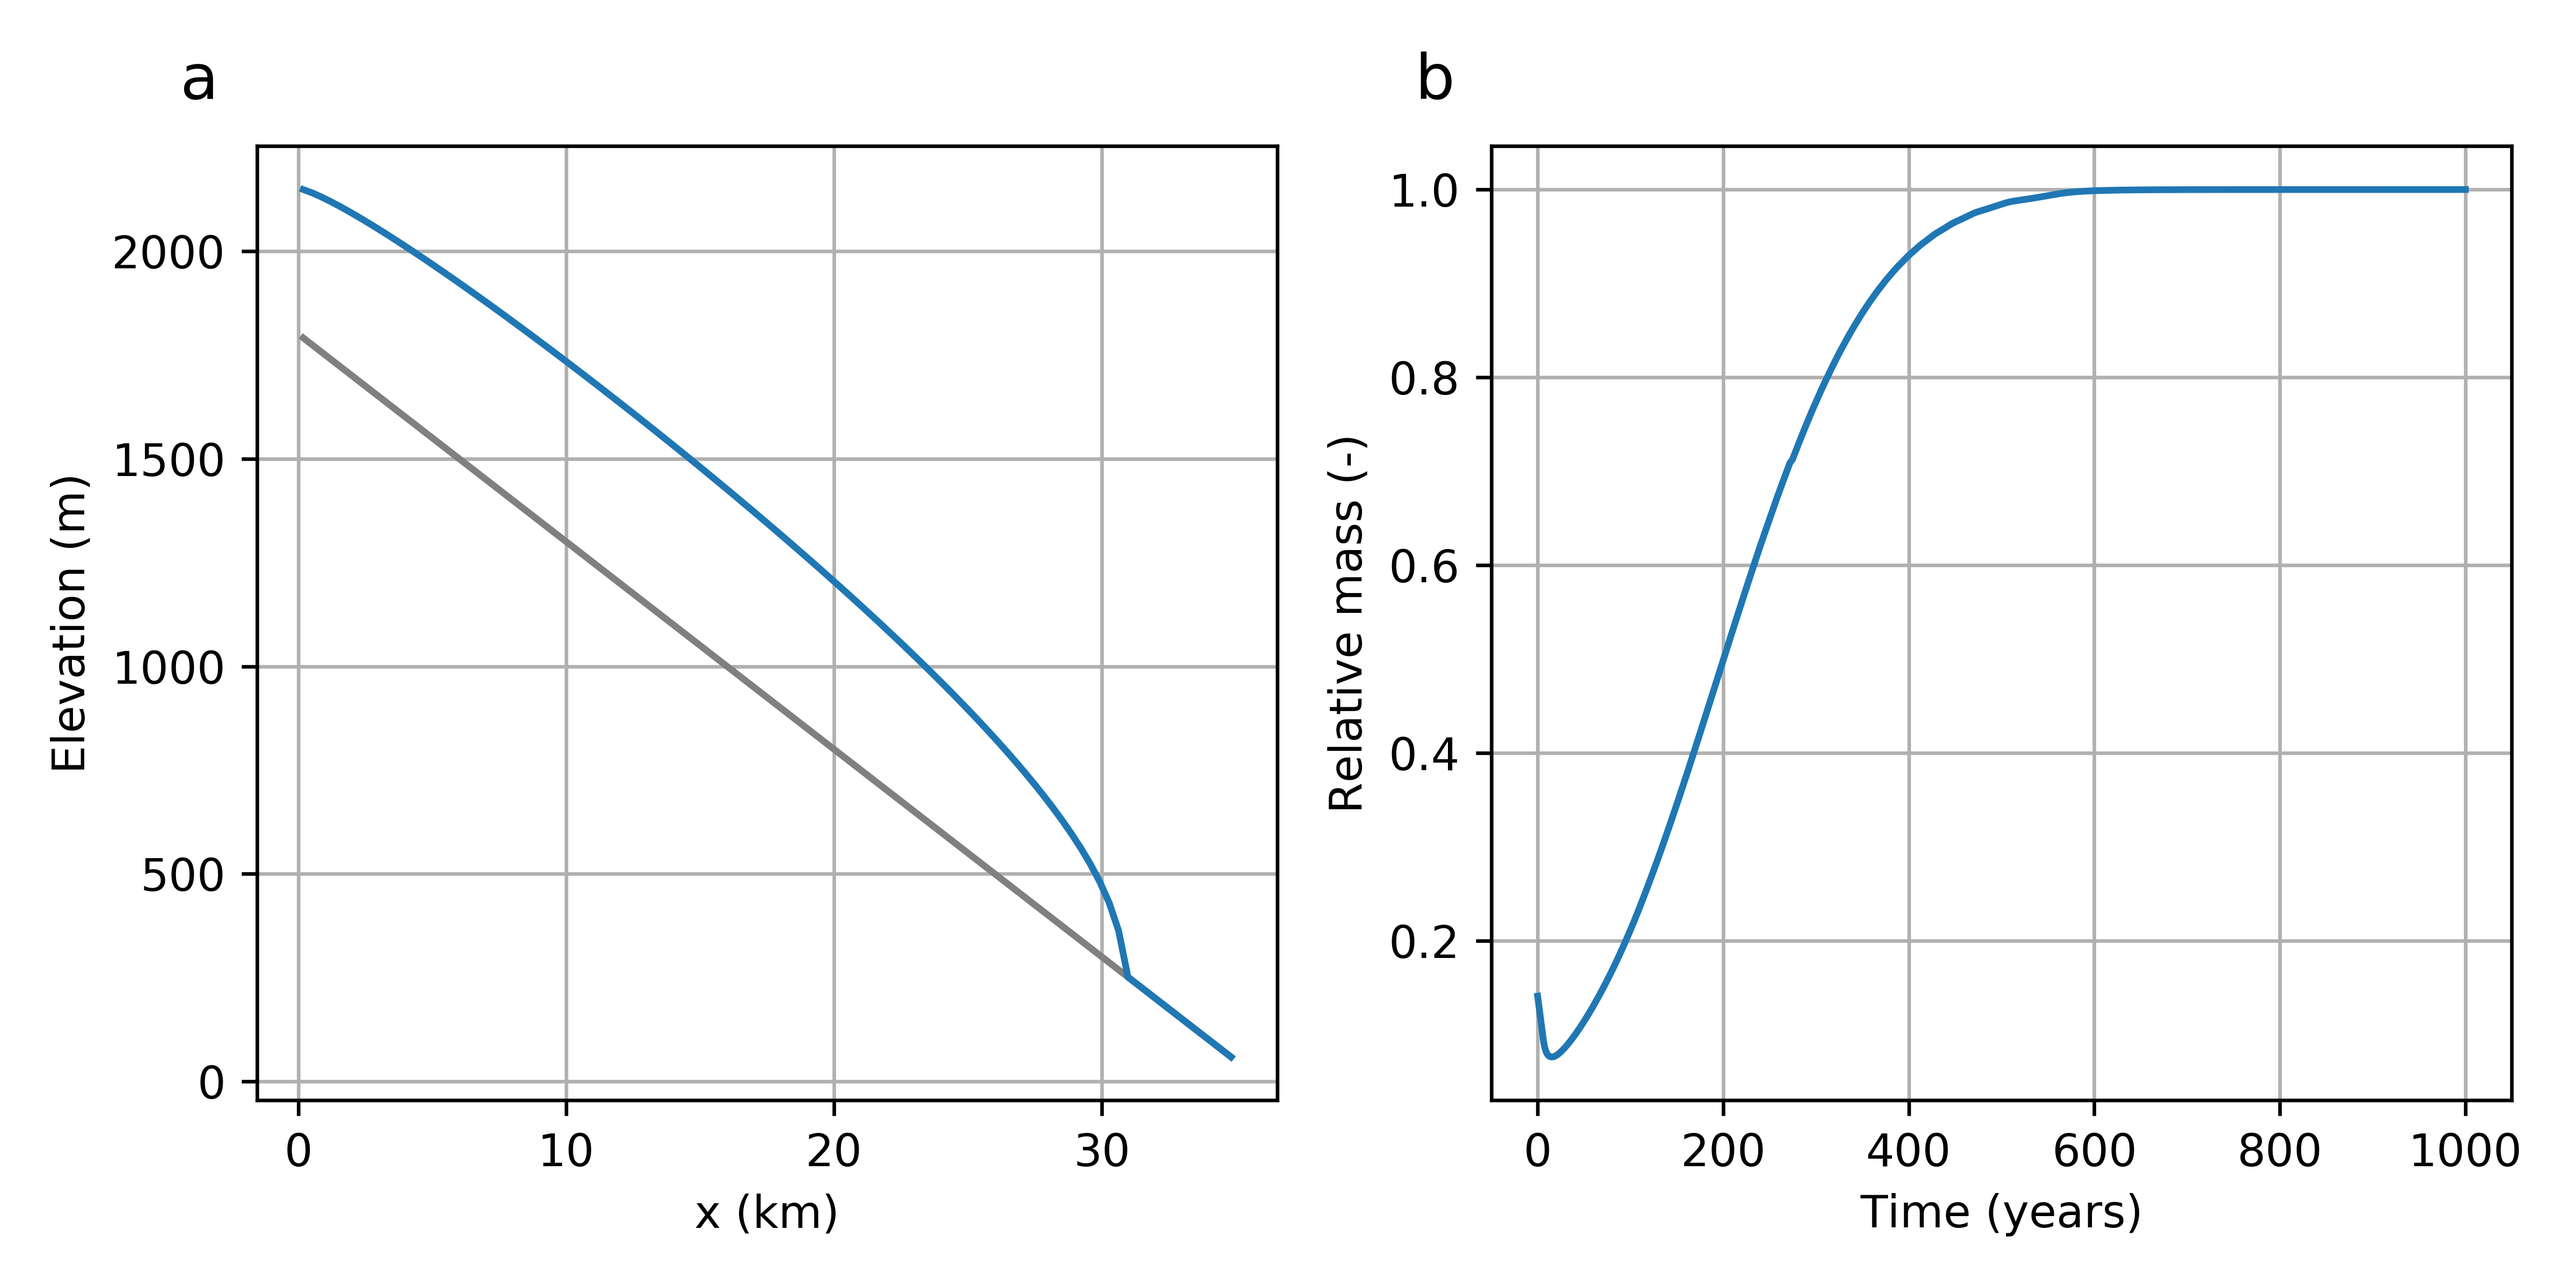
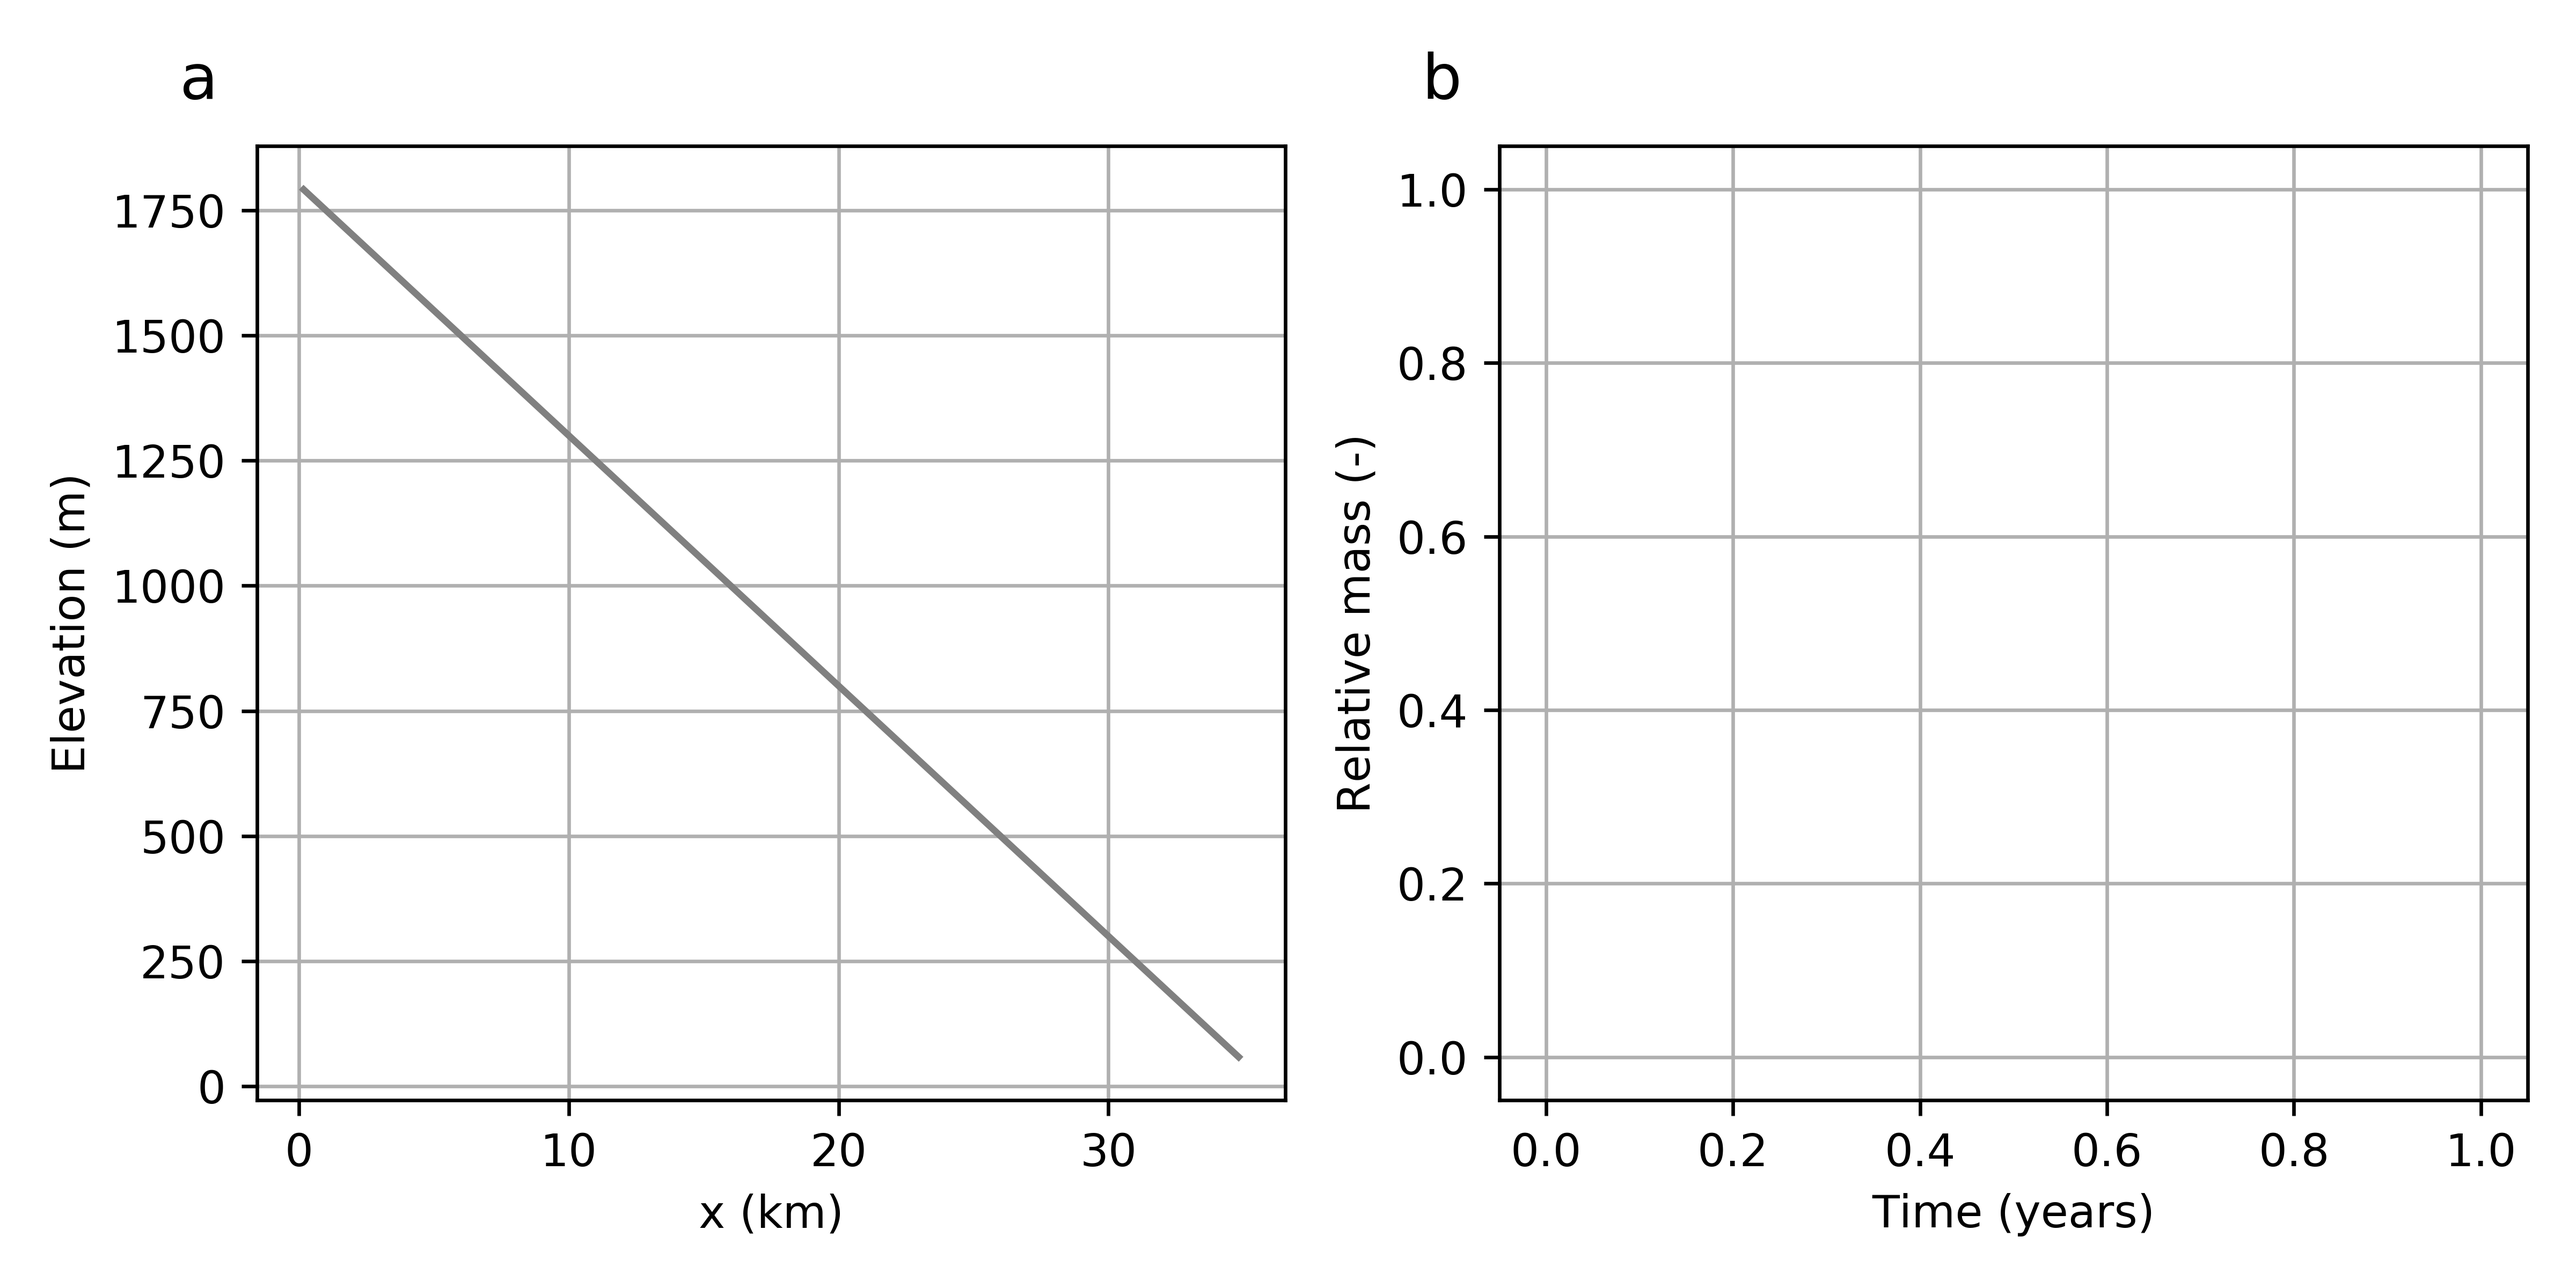
Update tests for Katie

diff --git a/Assignment02/ice_flow_model.py b/Assignment02/ice_flow_model.py
@@ -61,6 +61,55 @@ def rhs_1d(t, h, zb, dx, Gamma=Gamma, zELA=zELA,
     hprime = -(q_edge[1:] - q_edge[:-1])/dx + bdot
     return hprime
 
+def rhs_1d_print_diff(t, h, zb, dx, Gamma=Gamma, zELA=zELA,
+    bcs=('no-flux', 'no-flux'), b='linear', A=A):
+    """
+    Calculate right hand side (dh/dt) of one-dimensional ice flow model.
+    """
+    n_center = len(h)
+    n_edge = n_center + 1
+
+    zs = zb + h
+    # dzdx defined on edges
+    dzdx_center = (zs[1:] - zs[:-1])/dx
+
+    # k defined on centers
+    k_center = -(2*A)*((rho*g)**n)*(h**(n+2))/(n+2)
+    q_edge = np.zeros(n_edge)
+    q_edge[1:-1] = (k_center[1:] + k_center[:-1])/2 * dzdx_center**n
+
+    # Calculate mass balance
+    if b=='linear':
+        bdot = Gamma*(zs - zELA)
+    else:
+        bdot = Gamma*np.ones(n_center)
+
+    if bcs[0]=='no-flux':
+        # No flux boundary conditions
+        q_edge[0] = 0
+    elif bcs[0]=='free-flux':
+        # q_edge[0] = k_center[0]*(dzdx_center[0])**n
+        q_edge[0] = q_edge[1]
+        q_edge[0] += bdot[0]*dx*np.sign(q_edge[0])
+
+    if bcs[1]=='no-flux':
+        q_edge[-1] = 0
+    elif bcs[1]=='free-flux':
+        # q_edge[-1] = k_center[-1]*dzdx_center[-1]**n
+        q_edge[-1] = q_edge[-2]
+        q_edge[-1] += bdot[1]*dx*np.sign(q_edge[-1])
+
+    # Time derivative is flux divergence + mass balance
+    hprime = -(q_edge[1:] - q_edge[:-1])/dx + bdot
+
+    qval = q_edge[10]
+    dval = q_edge[10]/dzdx_center[10]
+
+    print('flux:', qval)
+    print('diffusivity:', dval)
+    return hprime
+
+
 def drive_ice_flow(tt, xc, h, zb, Gamma=Gamma, zELA=zELA, method='odeRK', **kwargs):
     """
     Integrate ice-flow model forward in time for given time steps (tt) and
@@ -96,8 +145,8 @@ def drive_ice_flow(tt, xc, h, zb, Gamma=Gamma, zELA=zELA, method='odeRK', **kwar
     while t<tend:
         h_old = h
         if method=='odeRK':
-            # k1 = rhs_fun(t, h)
-            # k2 = rhs_fun(t + c2*dt, h + dt*a21*k1)
+            k1 = rhs_fun(t, h)
+            k2 = rhs_fun(t + c2*dt, h + dt*a21*k1)
             k3 = rhs_fun(t + c3*dt, h + dt*a31*k1 + dt*a32*k2)
             k4 = rhs_fun(t + c4*dt, h + dt*k3)
 
@@ -120,13 +169,18 @@ def drive_ice_flow(tt, xc, h, zb, Gamma=Gamma, zELA=zELA, method='odeRK', **kwar
             h_new = scipy.optimize.newton(g, h, tol=1e-6)
             h_new[h_new<0] = 0
 
+        elif method=='odeFE':
+            dhdt = rhs_fun(t, h)
+            subset = h + dhdt<0
+            dhdt[subset] = -h[subset]/dt
+            h_new = h + dt*dhdt
 
-        elif method=='CN':
-            pass
         h = h_new
         H[i, :] = h
         i+=1
         t+=dt
+
+    rhs_1d_print_diff(t, h, zb, dx, Gamma=Gamma, zELA=zELA,**kwargs)
 
     dhdt = (h_new - h_old)/dt
     print('Maximum dh/dt (m/year):')

diff --git a/Assignment02/case_valley_slope.py b/Assignment02/case_valley_slope.py
@@ -6,23 +6,32 @@ from ice_flow_model import drive_ice_flow
 # DOMAIN
 L = 35e3        # Domain length (m)
 N = 100         # Number of grid centre points
-dx = L/N
+dx = L/N        # Grid resolution (350 m)
 
-xc = np.arange(dx/2, L+dx/2, dx)    # Cell centre coordinates
-xe = np.arange(0, L+dx, dx)         # Cell edge coordinates
-b0 = 1800
-zb = b0 - 0.05*xc
-t0 = 0
-tend = 1e3*360*86400
-dt = 100*86400
+xc = np.arange(dx/2, L+dx/2, dx)    # Cell centre coordinates (175, 525, ... )
+xe = np.arange(0, L+dx, dx)         # Cell edge coordinates (0, 350, ... )
+b0 = 1800                           # Highest bed elevation (m)
+bed_slope = 0.05                    # Bed slope (m/m)
+zb = b0 - bed_slope*xc              # Bed elevation (m)
+zELA = 1400                         # ELA elevation (m)
+Gamma = 0.007/(365*86400)           # Mass balance gradient (s-1)
 
-# Initial conditions - the model is robust enough we can be completely
-# naive about the initial state
-h0 = np.zeros(xc.shape)
-h0[:95] = 50
+# TIME STEPPING
+t0 = 0                              # Initial time (0)
+tend = 1e3*365*86400                # End time: integrate for 1000 years to reach steady state
+dt = 5*86400                        # Timestep = 5 days
+
+# Initial conditions - the model is robust enough we can be naive about
+# the initial state and let it grow from almost nothing
+h0 = 50*np.ones(xc.shape)           # Uniform 50 m thickness
+
+# Zero thickness near domain edge so that no-flow BCs make sense - this is
+# not strictly necessary
+h0[(N-5):] = 0
 
 tt = np.arange(t0, tend+dt, dt)
-H2 = drive_ice_flow(tt, xc, h0, zb, zELA=1400, method='BE')
+
+H2 = drive_ice_flow(tt, xc, h0, zb, zELA=zELA, Gamma=Gamma, method='odeFE')
 
 fig2, (ax2, ax3) = plt.subplots(ncols=2, figsize=(8, 4))
 ax2.plot(xc/1e3, zb, color=0.5*np.ones(3))
@@ -40,6 +49,8 @@ ax3.text(-0.075, 1.05, 'b', transform=ax3.transAxes, fontsize=14)
 ax3.grid()
 
 plt.tight_layout()
+
+"""
 fig2.savefig('valley_slope.png', dpi=600)
 
 print(np.max(H2[-1]))
@@ -77,5 +88,5 @@ print(volumes_gamma/volumes_gamma[2])
 
 
 fig.savefig('valley_sensitivity.png', dpi=600)
-
+"""
 plt.show()

diff --git a/Assignment02/tim_valley_setup.py b/Assignment02/tim_valley_setup.py
@@ -1,0 +1,44 @@
+"""
+Parameters and initial conditions for valley glacier test of
+shallow ice approximation solver
+"""
+
+# DOMAIN
+L = 35e3        # Domain length (m)
+N = 100         # Number of grid centre points
+dx = L/N        # Grid resolution (350 m)
+
+xc = np.arange(dx/2, L+dx/2, dx)    # Cell centre coordinates (175, 525, ... )
+xe = np.arange(0, L+dx, dx)         # Cell edge coordinates (0, 350, ... )
+b0 = 1800                           # Highest bed elevation (m)
+bed_slope = 0.05                    # Bed slope (m/m)
+zb = b0 - bed_slope*xc              # Bed elevation (m)
+zELA = 1400                         # ELA elevation (m)
+Gamma = 0.007/(365*86400)           # Mass balance gradient (s-1)
+
+# TIME STEPPING
+t0 = 0                              # Initial time (0)
+tend = 1e3*365*86400                # End time: integrate for 1000 years to reach steady state
+dt = 5*86400                        # Timestep = 5 days
+
+# Initial conditions - the model is robust enough we can be naive about
+# the initial state and let it grow from almost nothing
+h0 = 50*np.ones(xc.shape)           # Uniform 50 m thickness
+
+# Zero thickness near domain edge so that no-flow BCs make sense - this is
+# not strictly necessary
+h0[(N-5):] = 0
+
+"""
+My ice flow model codes also includes the following parameters:
+
+# CONSTANTS
+g = 9.81                    # Gravity; m/s2
+rho = 910                   # Ice density: kg/m3
+n = 3                       # Ice flow exponent: -
+
+# PARAMETERS
+A = 2.4e-24                 # Ice flow coefficient (Pa-3.s-1)
+Gamma = 0.007/(365*86400)   # Mass balance gradient (s-1)
+zELA = 1400
+"""
